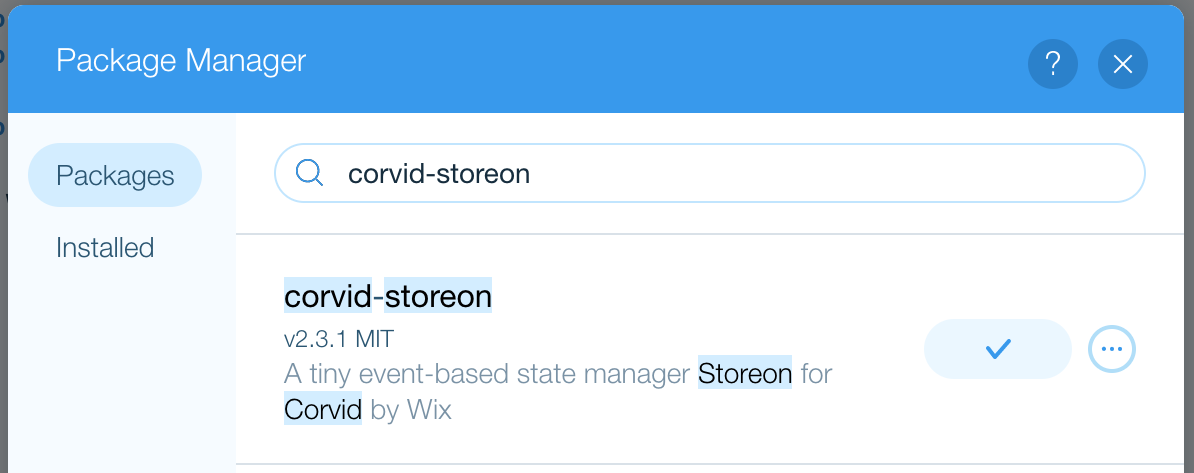
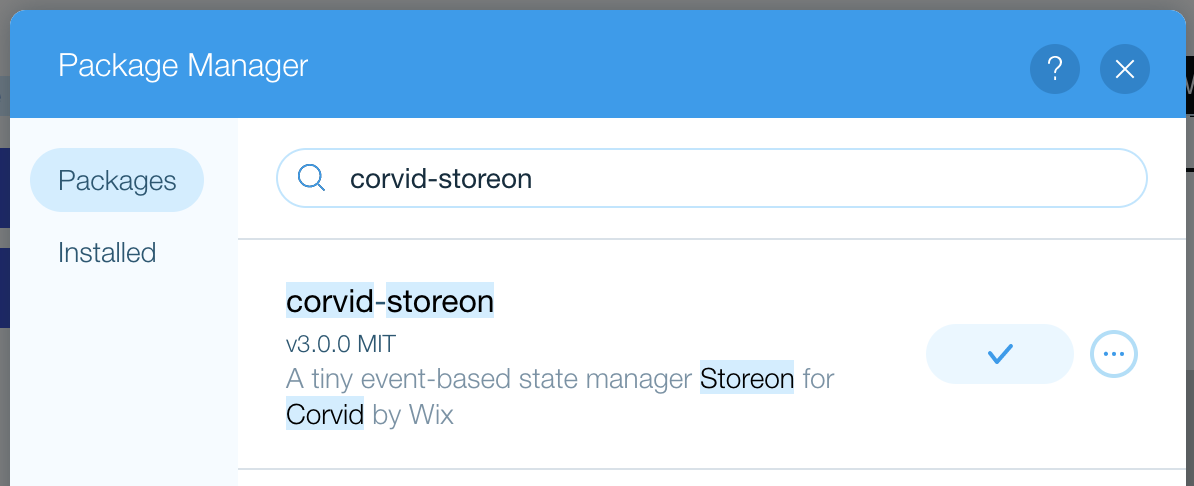
Update README

diff --git a/README.md b/README.md
@@ -62,7 +62,7 @@ connectPage((state) => {
 You use the [Package Manager](https://support.wix.com/en/article/corvid-managing-external-code-libraries-with-the-package-manager)
 to manage the npm packages in your site.
 
-Latest available version: `v2.3.1` [Check status](https://www.wix.com/corvid/npm-modules)
+Latest available version: `v3.0.0` [Check status](https://www.wix.com/corvid/npm-modules)
 
 <img src="assets/cs.png" width="500" alt="Install corvid-storeon">
 
@@ -176,7 +176,7 @@ import wixWindow from "wix-window";
 import { createStoreon } from "corvid-storeon";
 
 // Business logic
-function appModule(store) {
+const appModule = (store) => {
   store.on("@init", () => {
     return {
       items: [],
@@ -188,10 +188,10 @@ function appModule(store) {
       items: [...items, item],
     };
   });
-}
+};
 
 // Devtools
-function logger(store) {
+const logger = (store) => {
   store.on("@dispatch", (state, [event, data]) => {
     if (event === "@changed") {
       const keys = Object.keys(data).join(', ');
@@ -202,9 +202,9 @@ function logger(store) {
       console.log(`action: ${event}`);
     }
   });
-}
+};
 
-export default createStoreon([
+export const store = createStoreon([
   appModule,
   (wixWindow.viewMode === "Preview" && logger),
 ]);
